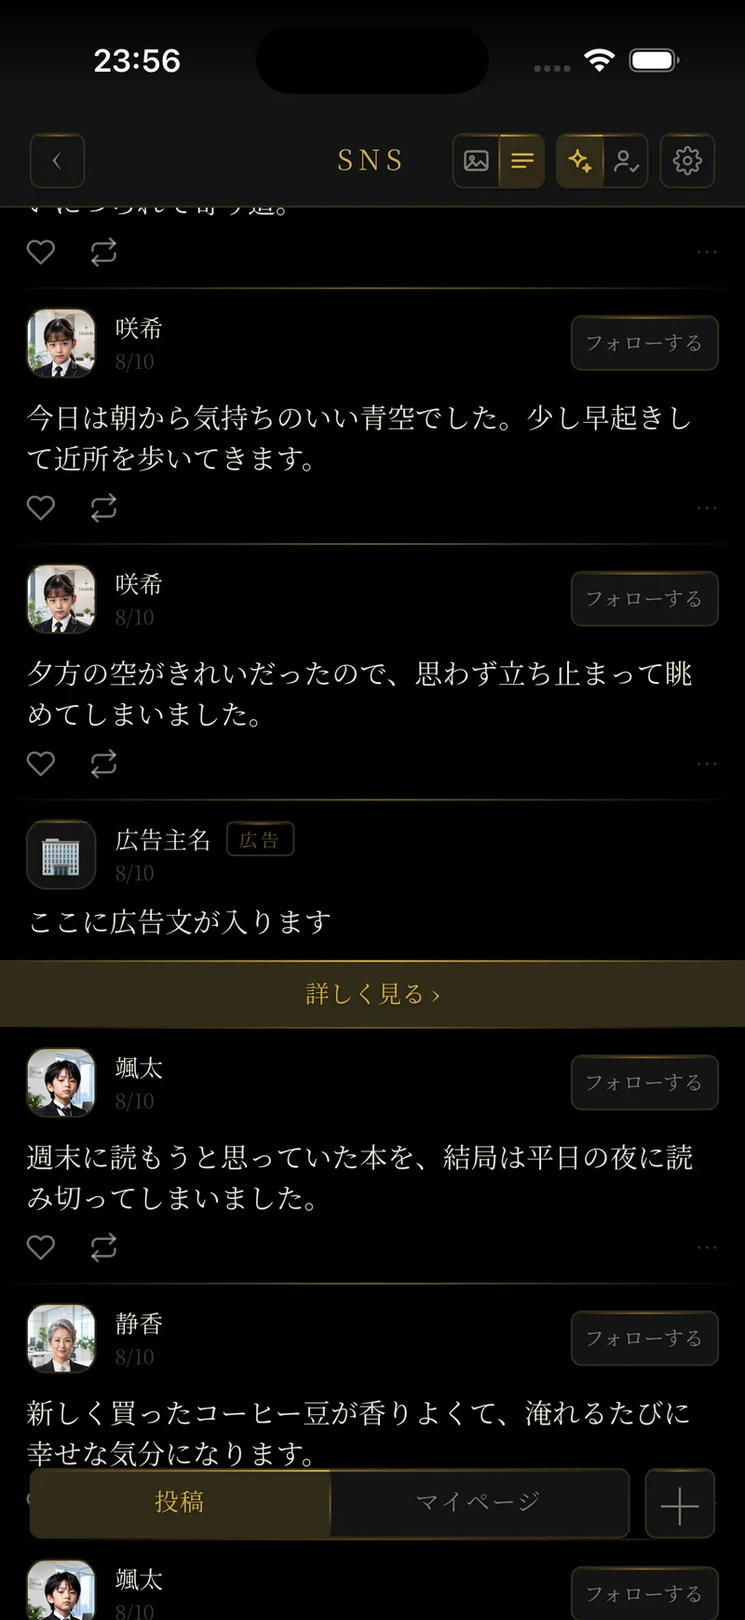
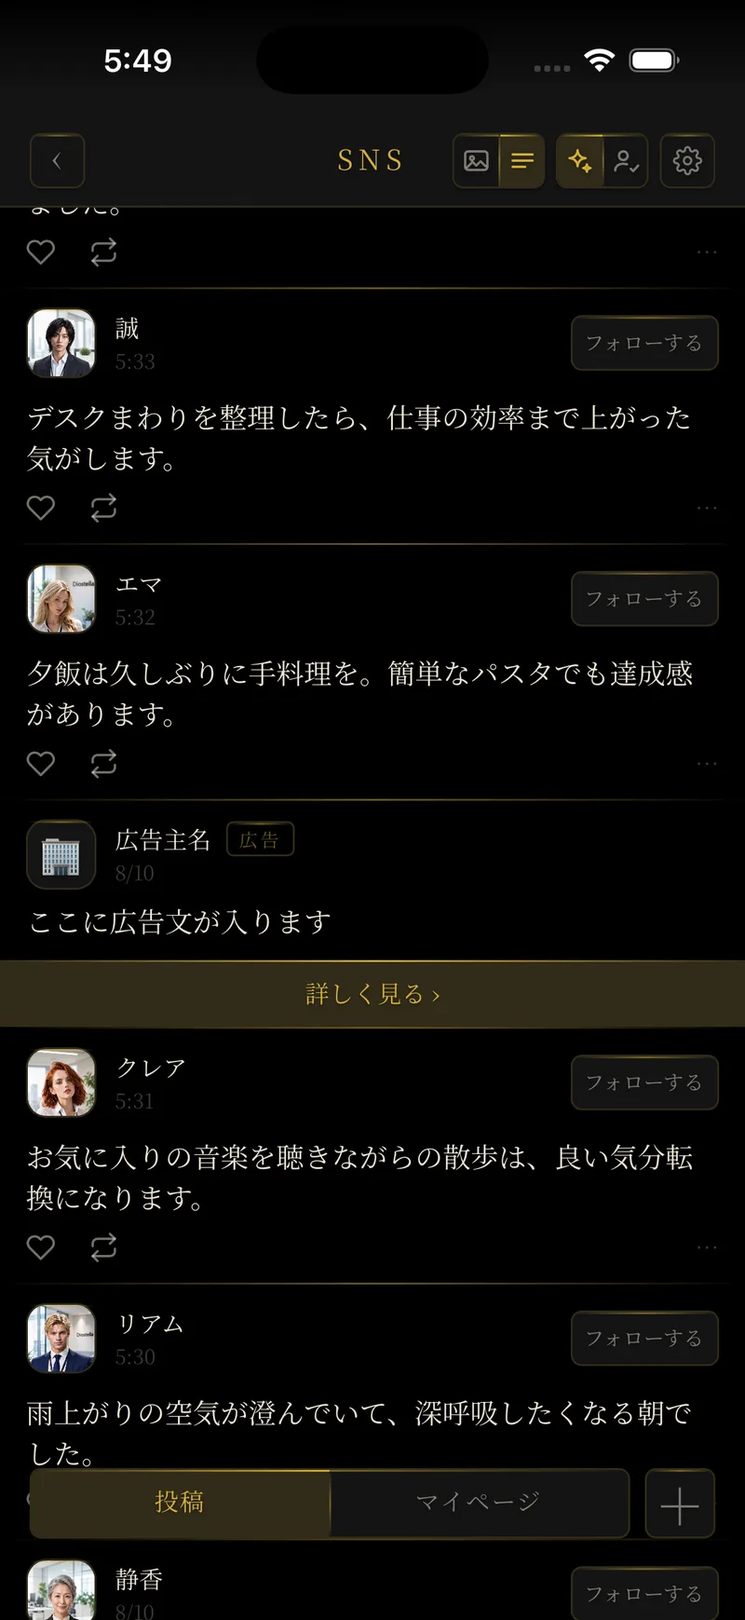
広告掲載ページの図版を全面実機スクショへ刷新（合成カタログ方式を廃止）
- SNSテキスト面4枚を差し替え、メディア一覧4枚・出会い4枚を新規追加
- 旧・合成カタログ画像3枚（ads-size-media/textfeed/dating.png）を削除
- 文言＝5行→7行表記へ更新・min/max の並び替え・「見出し」「文字のみ」の表記整理
- css/js は ?v= を更新（既存訪問者に古いキャッシュが出ないように）

diff --git a/pages/ads/index.html b/pages/ads/index.html
@@ -11,7 +11,7 @@
 </head>
 <body>
   <nav class="nav scrolled"><div class="nav-inner"><a href="../../index.html" class="nav-logo">Diostella</a><ul class="nav-links"><li class="nav-item"><a href="../about/message.html">会社案内</a><ul class="nav-dropdown"><li><a href="../about/message.html">代表メッセージ</a></li><li><a href="../about/profile.html">会社概要</a></li><li><a href="../about/officers.html">役員一覧</a></li><li><a href="../about/history.html">沿革</a></li><li><a href="../about/office.html">事業所案内</a></li></ul></li><li class="nav-item"><a href="../works/index.html">事業内容</a><ul class="nav-dropdown"><li><a href="../works/app.html">アプリ</a></li></ul></li><li class="nav-item"><a href="../news/index.html">お知らせ</a></li><li class="nav-item"><a href="../recruit/index.html">採用情報</a></li><li class="nav-item"><a href="../../contact.html">お問い合わせ</a></li></ul><button class="nav-toggle" aria-label="メニュー"><span></span><span></span><span></span></button></div></nav>
-  <div class="mobile-menu"><a href="../../index.html">トップ</a><a href="../about/message.html">会社案内</a><div class="mobile-sub"><a href="../about/message.html">代表メッセージ</a><a href="../about/profile.html">会社概要</a><a href="../about/officers.html">役員一覧</a><a href="../about/history.html">沿革</a><a href="../about/office.html">事業所案内</a></div><a href="../works/index.html">事業内容</a><div class="mobile-sub"><a href="../works/app.html">アプリ</a></div><a href="../news/index.html">お知らせ</a><a href="../recruit/index.html">採用情報</a><a href="index.html">広告掲載</a><a href="../collab/index.html">IPコラボ</a><a href="../../contact.html">お問い合わせ</a></div>
+  <div class="mobile-menu"><a href="../../index.html">トップ</a><a href="../about/message.html">会社案内</a><div class="mobile-sub"><a href="../about/message.html">代表メッセージ</a><a href="../about/profile.html">会社概要</a><a href="../about/officers.html">役員一覧</a><a href="../about/history.html">沿革</a><a href="../about/office.html">事業所案内</a></div><a href="../works/index.html">事業内容</a><div class="mobile-sub"><a href="../works/app.html">アプリ</a></div><a href="../news/index.html">お知らせ</a><a href="../recruit/index.html">採用情報</a><a href="index.html">広告掲載</a><a href="../collab/index.html">IPコラボ</a><a href="../support/index.html">ご支援のお願い</a><a href="../../contact.html">お問い合わせ</a></div>
 
   <div class="page-wrapper">
     <div class="container"><div class="breadcrumb"><a href="../../index.html">Diostella</a><span>></span>広告掲載について</div></div>
@@ -43,9 +43,9 @@
           <h3 style="font-size:1.05rem; margin:32px 0 12px; color:var(--gold, #a8842c);">広告の形式と入稿物</h3>
           <ul style="line-height:2.1; padding-left:1.2em;">
             <li><strong>画像投稿の広告</strong>（SNSの写真フィード）：画像1枚・広告主名（<strong>縦4:5〜横1.88:1</strong>）</li>
-            <li><strong>テキスト投稿の広告</strong>（SNSのテキスト投稿面）：画像1枚のみ（<strong>1.88:1</strong>）、または画像なしで広告主名・見出し・本文（<strong>5行まで</strong>）</li>
+            <li><strong>テキスト投稿の広告</strong>（SNSのテキスト投稿面）：画像1枚のみ（<strong>1.88:1</strong>）、または画像なしで広告主名・本文（<strong>7行まで</strong>・先頭の行は白色で強調できます）</li>
             <li><strong>メディア一覧の広告</strong>（音楽・動画・漫画・絵）：テキスト投稿の広告と<strong>同じ規格</strong>（同じ素材をお使いいただけます）</li>
-            <li><strong>出会いの広告</strong>：候補カードと同じ全画面カード。広告主名・見出し・本文・リンク先URL・画像（<strong>縦4:5〜横1.88:1</strong>の範囲でそのまま表示いたします。画像がない場合は見出しを大きく表示します）</li>
+            <li><strong>出会いの広告</strong>：候補カードと同じ全画面カード。広告主名・本文・リンク先URL・画像（<strong>縦4:5〜横1.88:1</strong>の範囲でそのまま表示いたします。画像または動画が必須＝文字のみの形はありません）</li>
             <li>入稿は画像とテキストのみ（タグ・スクリプト等の埋め込みは不可）</li>
           </ul>
 
@@ -93,34 +93,34 @@
           </p>
           <ul style="line-height:2.1; padding-left:1.2em; margin-bottom:12px;">
             <li><strong>画像の広告</strong>：比率 1.88:1 の<strong>1種類</strong>（推奨サイズ 1206×642px）。画像投稿面のいちばん小さい枠と同じで、同じ素材をお使いいただけます</li>
-            <li><strong>文字の広告</strong>：画像はありません。アイコン・広告主名・「広告」の表示・日付が並び、その下に文字が<strong>1行から最大5行まで</strong>入ります</li>
+            <li><strong>文字の広告</strong>：画像はありません。アイコン・広告主名・「広告」の表示・日付が並び、その下に文字が<strong>1行から最大7行まで</strong>入ります（先頭の行は白色で強調できます）</li>
             <li><strong>動画</strong>も画像と同じ枠（1.88:1）で、音声付きで入稿できます。音声のない状態で自動再生し、利用者が右下のボタンで音声を出せます</li>
             <li>どちらの形でも、素材の下に「詳しく見る」のリンク帯が付きます（帯は素材の外です）</li>
           </ul>
           <div style="display:flex; gap:16px; flex-wrap:wrap; justify-content:center; margin:20px 0 8px;">
             <figure style="margin:0; width:min(23%, 200px); min-width:170px;">
-              <img src="../../assets/images/ads-text-image.webp" alt="テキスト投稿面 画像の広告（1.88:1）の実機表示例"
+              <img src="../../assets/images/ads-text-image.webp?v=20260820" alt="テキスト投稿面 画像の広告（1.88:1）の実機表示例"
                    style="width:100%; height:auto; display:block; border:1px solid var(--border, #e5e3de); border-radius:18px;">
               <figcaption style="font-size:0.85rem; color:var(--text-muted, #999); line-height:1.9; margin-top:8px;">
                 画像の広告（1.88:1）。
               </figcaption>
             </figure>
             <figure style="margin:0; width:min(23%, 200px); min-width:170px;">
-              <img src="../../assets/images/ads-text-min.webp" alt="テキスト投稿面 文字の広告（最小1行）の実機表示例"
+              <img src="../../assets/images/ads-text-max.webp?v=20260820" alt="テキスト投稿面 文字の広告（最大7行）の実機表示例"
+                   style="width:100%; height:auto; display:block; border:1px solid var(--border, #e5e3de); border-radius:18px;">
+              <figcaption style="font-size:0.85rem; color:var(--text-muted, #999); line-height:1.9; margin-top:8px;">
+                文字の広告・最大（7行）。
+              </figcaption>
+            </figure>
+            <figure style="margin:0; width:min(23%, 200px); min-width:170px;">
+              <img src="../../assets/images/ads-text-min.webp?v=20260820" alt="テキスト投稿面 文字の広告（最小1行）の実機表示例"
                    style="width:100%; height:auto; display:block; border:1px solid var(--border, #e5e3de); border-radius:18px;">
               <figcaption style="font-size:0.85rem; color:var(--text-muted, #999); line-height:1.9; margin-top:8px;">
                 文字の広告・最小（1行）。
               </figcaption>
             </figure>
             <figure style="margin:0; width:min(23%, 200px); min-width:170px;">
-              <img src="../../assets/images/ads-text-max.webp" alt="テキスト投稿面 文字の広告（最大5行）の実機表示例"
-                   style="width:100%; height:auto; display:block; border:1px solid var(--border, #e5e3de); border-radius:18px;">
-              <figcaption style="font-size:0.85rem; color:var(--text-muted, #999); line-height:1.9; margin-top:8px;">
-                文字の広告・最大（5行）。
-              </figcaption>
-            </figure>
-            <figure style="margin:0; width:min(23%, 200px); min-width:170px;">
-              <img src="../../assets/images/ads-text-video.webp" alt="テキスト投稿面 動画の広告の実機表示例（右下に音声切替ボタン）"
+              <img src="../../assets/images/ads-text-video.webp?v=20260820" alt="テキスト投稿面 動画の広告の実機表示例（右下に音声切替ボタン）"
                    style="width:100%; height:auto; display:block; border:1px solid var(--border, #e5e3de); border-radius:18px;">
               <figcaption style="font-size:0.85rem; color:var(--text-muted, #999); line-height:1.9; margin-top:8px;">
                 動画の表示例。右下のボタンで音声を出せます。
@@ -136,19 +136,45 @@
             メディアの一覧に挟まる広告は、<strong>テキスト投稿面と同じ規格</strong>です。同じ素材をそのままお使いいただけます。
           </p>
           <ul style="line-height:2.1; padding-left:1.2em; margin-bottom:12px;">
-            <li><strong>画像の広告</strong>：1206 × 642 px（比率 1.88:1）の<strong>1種類のみ</strong>。一覧の中では左右に余白のある全幅カードとして、素材が切り取られずそのまま表示されます</li>
-            <li><strong>文字の広告</strong>：テキスト投稿面と同じ形式です（文字は5行まで）</li>
+            <li><strong>画像の広告</strong>：1206 × 642 px（比率 1.88:1）の<strong>1種類のみ</strong>。素材が切り取られずそのまま表示されます</li>
+            <li><strong>文字の広告</strong>：テキスト投稿面と同じ形式です（文字は7行まで）</li>
             <li>音楽・動画・漫画・絵のどの一覧でも、利用者が列数の表示設定を変えても、常に同じ形で表示されます</li>
-            <li>一覧の左右に余白がある分、SNSのテキスト投稿面よりも<strong>ひと回り小さく表示されます</strong>（縦横比は同じ・素材の切り取りはありません）</li>
+            <li>表示の大きさも<strong>SNSのテキスト投稿面と同じ画面幅いっぱい</strong>です（一覧の余白に関わらず同じ見え方になります）</li>
             <li>配信面は媒体単位（音楽のみ・漫画のみ等）で指定いただけます</li>
           </ul>
-          <figure style="margin:20px 0 8px;">
-            <img src="../../assets/images/ads-size-media.png" alt="メディア一覧の広告 入稿サイズの見本（サイズ見本と掲載例の実機表示例）"
-                 style="width:100%; max-width:640px; height:auto; display:block; margin:0 auto; border:1px solid var(--border, #e5e3de);">
-            <figcaption style="font-size:0.85rem; color:var(--text-muted, #999); line-height:1.9; margin-top:8px; text-align:center;">
-              実際の表示例（漫画の一覧）。左がサイズ見本、右が掲載例。作品の間に、左右に余白のある全幅カードとして挟まります。
-            </figcaption>
-          </figure>
+          <div style="display:flex; gap:16px; flex-wrap:wrap; justify-content:center; margin:20px 0 8px;">
+            <figure style="margin:0; width:min(23%, 200px); min-width:170px;">
+              <img src="../../assets/images/ads-media-manga.webp" alt="漫画一覧 画像の広告（1.88:1）の実機表示例"
+                   style="width:100%; height:auto; display:block; border:1px solid var(--border, #e5e3de); border-radius:18px;">
+              <figcaption style="font-size:0.85rem; color:var(--text-muted, #999); line-height:1.9; margin-top:8px;">
+                漫画の一覧・画像の広告（1.88:1）。
+              </figcaption>
+            </figure>
+            <figure style="margin:0; width:min(23%, 200px); min-width:170px;">
+              <img src="../../assets/images/ads-media-art.webp" alt="絵の一覧 文字の広告（最大7行）の実機表示例"
+                   style="width:100%; height:auto; display:block; border:1px solid var(--border, #e5e3de); border-radius:18px;">
+              <figcaption style="font-size:0.85rem; color:var(--text-muted, #999); line-height:1.9; margin-top:8px;">
+                絵の一覧・文字の広告・最大（7行）。
+              </figcaption>
+            </figure>
+            <figure style="margin:0; width:min(23%, 200px); min-width:170px;">
+              <img src="../../assets/images/ads-media-music.webp" alt="音楽一覧 文字の広告（最小1行）の実機表示例"
+                   style="width:100%; height:auto; display:block; border:1px solid var(--border, #e5e3de); border-radius:18px;">
+              <figcaption style="font-size:0.85rem; color:var(--text-muted, #999); line-height:1.9; margin-top:8px;">
+                音楽の一覧・文字の広告・最小（1行）。
+              </figcaption>
+            </figure>
+            <figure style="margin:0; width:min(23%, 200px); min-width:170px;">
+              <img src="../../assets/images/ads-media-novel.webp" alt="小説一覧 動画の広告の実機表示例（右下に音声切替ボタン）"
+                   style="width:100%; height:auto; display:block; border:1px solid var(--border, #e5e3de); border-radius:18px;">
+              <figcaption style="font-size:0.85rem; color:var(--text-muted, #999); line-height:1.9; margin-top:8px;">
+                小説の一覧・動画の表示例。右下のボタンで音声を出せます。
+              </figcaption>
+            </figure>
+          </div>
+          <p style="font-size:0.85rem; color:var(--text-muted, #999); line-height:1.9; margin:0 0 8px;">
+            ※iPhone 17 Pro（画面幅402pt・3倍）での表示を撮影したものです。
+          </p>
 
           <h3 style="font-size:1.05rem; margin:32px 0 12px; color:var(--gold, #a8842c);">入稿サイズ（出会いの広告）</h3>
           <p style="line-height:2; margin-bottom:12px;">
@@ -156,15 +182,41 @@
           </p>
           <ul style="line-height:2.1; padding-left:1.2em; margin-bottom:12px;">
             <li>画像・動画とも<strong>縦4:5（1206×1508px）〜横1.88:1（1206×642px）</strong>の範囲内で、入稿いただいた形のまま表示いたします＝<strong>画像投稿の広告と同じ規格</strong>（同じ素材をお使いいただけます。範囲を外れる素材は枠に合わせて中央を切り取って表示します）</li>
-            <li>画像の下に広告主名・見出し・本文・「詳しく見る」の帯が入ります</li>
+            <li>「広告」の表示と広告主名は素材の左上に重なり、素材の下に本文と「詳しく見る」の帯が入ります（先頭の行は白色で強調できます。本文の全文表示は横1.88:1で16行（346字）・縦4:5で4行までです）</li>
           </ul>
-          <figure style="margin:20px 0 8px;">
-            <img src="../../assets/images/ads-size-dating.png" alt="出会い面の広告 入稿サイズの見本（横1.88:1・縦4:5・動画の実機表示例）"
-                 style="width:100%; height:auto; display:block; border:1px solid var(--border, #e5e3de);">
-            <figcaption style="font-size:0.85rem; color:var(--text-muted, #999); line-height:1.9; margin-top:8px;">
-              実際の表示例。左から、横の限界（1.88:1）とその掲載例、縦の限界（4:5）とその掲載例、動画（横長・縦長）です。
-            </figcaption>
-          </figure>
+          <div style="display:flex; gap:16px; flex-wrap:wrap; justify-content:center; margin:20px 0 8px;">
+            <figure style="margin:0; width:min(23%, 200px); min-width:170px;">
+              <img src="../../assets/images/ads-dating-max-image.webp" alt="出会い面 縦の限界（4:5）画像と本文最大の実機表示例"
+                   style="width:100%; height:auto; display:block; border:1px solid var(--border, #e5e3de); border-radius:18px;">
+              <figcaption style="font-size:0.85rem; color:var(--text-muted, #999); line-height:1.9; margin-top:8px;">
+                縦の限界（4:5）・本文最大（4行）。
+              </figcaption>
+            </figure>
+            <figure style="margin:0; width:min(23%, 200px); min-width:170px;">
+              <img src="../../assets/images/ads-dating-mini-image.webp" alt="出会い面 横の限界（1.88:1）画像と本文最大の実機表示例"
+                   style="width:100%; height:auto; display:block; border:1px solid var(--border, #e5e3de); border-radius:18px;">
+              <figcaption style="font-size:0.85rem; color:var(--text-muted, #999); line-height:1.9; margin-top:8px;">
+                横の限界（1.88:1）・本文最大（16行・346字）。
+              </figcaption>
+            </figure>
+            <figure style="margin:0; width:min(23%, 200px); min-width:170px;">
+              <img src="../../assets/images/ads-dating-max-video.webp" alt="出会い面 動画（縦長4:5）と本文最小の実機表示例"
+                   style="width:100%; height:auto; display:block; border:1px solid var(--border, #e5e3de); border-radius:18px;">
+              <figcaption style="font-size:0.85rem; color:var(--text-muted, #999); line-height:1.9; margin-top:8px;">
+                動画（縦長4:5）・本文最小。右下のボタンで音声を出せます。
+              </figcaption>
+            </figure>
+            <figure style="margin:0; width:min(23%, 200px); min-width:170px;">
+              <img src="../../assets/images/ads-dating-mini-video.webp" alt="出会い面 動画（横長1.88:1）と本文最小の実機表示例"
+                   style="width:100%; height:auto; display:block; border:1px solid var(--border, #e5e3de); border-radius:18px;">
+              <figcaption style="font-size:0.85rem; color:var(--text-muted, #999); line-height:1.9; margin-top:8px;">
+                動画（横長1.88:1）・本文最小。
+              </figcaption>
+            </figure>
+          </div>
+          <p style="font-size:0.85rem; color:var(--text-muted, #999); line-height:1.9; margin:0 0 8px;">
+            ※iPhone 17 Pro（画面幅402pt・3倍）での表示を撮影したものです。
+          </p>
           <p style="line-height:2; margin:20px 0 8px;">
             ご入稿予定の素材と文章を入れて、実際の表示と切り取り位置をその場でご確認いただけます。
             <a href="simulator.html">入稿シミュレータはこちら</a>（画像はブラウザ内でのみ処理され、送信されません）
@@ -223,7 +275,7 @@
     </div>
   </div>
 
-  <footer class="footer"><div class="container"><div class="footer-grid"><div class="footer-col"><h4>会社案内</h4><ul><li><a href="../about/message.html">代表メッセージ</a></li><li><a href="../about/profile.html">会社概要</a></li><li><a href="../about/officers.html">役員一覧</a></li><li><a href="../about/history.html">沿革</a></li><li><a href="../about/office.html">事業所案内</a></li></ul></div><div class="footer-col"><h4>事業内容</h4><ul><li><a href="../works/app.html">アプリ</a></li></ul></div><div class="footer-col"><h4>その他</h4><ul><li><a href="../news/index.html">お知らせ</a></li><li><a href="../recruit/index.html">採用情報</a></li><li><a href="index.html">広告掲載</a><a href="../collab/index.html">IPコラボ</a></li><li><a href="../../contact.html">お問い合わせ</a></li></ul></div></div><div class="footer-bottom"><span class="footer-logo">Diostella</span><p class="footer-copy">&copy; 2026 Diostella. All rights reserved.</p></div></div></footer>
+  <footer class="footer"><div class="container"><div class="footer-grid"><div class="footer-col"><h4>会社案内</h4><ul><li><a href="../about/message.html">代表メッセージ</a></li><li><a href="../about/profile.html">会社概要</a></li><li><a href="../about/officers.html">役員一覧</a></li><li><a href="../about/history.html">沿革</a></li><li><a href="../about/office.html">事業所案内</a></li></ul></div><div class="footer-col"><h4>事業内容</h4><ul><li><a href="../works/app.html">アプリ</a></li></ul></div><div class="footer-col"><h4>その他</h4><ul><li><a href="../news/index.html">お知らせ</a></li><li><a href="../recruit/index.html">採用情報</a></li><li><a href="index.html">広告掲載</a><a href="../collab/index.html">IPコラボ</a></li><li><a href="../support/index.html">ご支援のお願い</a></li><li><a href="../../contact.html">お問い合わせ</a></li></ul></div></div><div class="footer-bottom"><span class="footer-logo">Diostella</span><p class="footer-copy">&copy; 2026 Diostella. All rights reserved.</p></div></div></footer>
   <script src="../../assets/js/script.js?v=20260816c"></script>
 </body>
 </html>

diff --git a/pages/ads/simulator.html b/pages/ads/simulator.html
@@ -118,7 +118,7 @@
 </head>
 <body>
   <nav class="nav scrolled"><div class="nav-inner"><a href="../../index.html" class="nav-logo">Diostella</a><ul class="nav-links"><li class="nav-item"><a href="../about/message.html">会社案内</a><ul class="nav-dropdown"><li><a href="../about/message.html">代表メッセージ</a></li><li><a href="../about/profile.html">会社概要</a></li><li><a href="../about/officers.html">役員一覧</a></li><li><a href="../about/history.html">沿革</a></li><li><a href="../about/office.html">事業所案内</a></li></ul></li><li class="nav-item"><a href="../works/index.html">事業内容</a><ul class="nav-dropdown"><li><a href="../works/app.html">アプリ</a></li></ul></li><li class="nav-item"><a href="../news/index.html">お知らせ</a></li><li class="nav-item"><a href="../recruit/index.html">採用情報</a></li><li class="nav-item"><a href="../../contact.html">お問い合わせ</a></li></ul><button class="nav-toggle" aria-label="メニュー"><span></span><span></span><span></span></button></div></nav>
-  <div class="mobile-menu"><a href="../../index.html">トップ</a><a href="../about/message.html">会社案内</a><div class="mobile-sub"><a href="../about/message.html">代表メッセージ</a><a href="../about/profile.html">会社概要</a><a href="../about/officers.html">役員一覧</a><a href="../about/history.html">沿革</a><a href="../about/office.html">事業所案内</a></div><a href="../works/index.html">事業内容</a><div class="mobile-sub"><a href="../works/app.html">アプリ</a></div><a href="../news/index.html">お知らせ</a><a href="../recruit/index.html">採用情報</a><a href="index.html">広告掲載</a><a href="../collab/index.html">IPコラボ</a><a href="../../contact.html">お問い合わせ</a></div>
+  <div class="mobile-menu"><a href="../../index.html">トップ</a><a href="../about/message.html">会社案内</a><div class="mobile-sub"><a href="../about/message.html">代表メッセージ</a><a href="../about/profile.html">会社概要</a><a href="../about/officers.html">役員一覧</a><a href="../about/history.html">沿革</a><a href="../about/office.html">事業所案内</a></div><a href="../works/index.html">事業内容</a><div class="mobile-sub"><a href="../works/app.html">アプリ</a></div><a href="../news/index.html">お知らせ</a><a href="../recruit/index.html">採用情報</a><a href="index.html">広告掲載</a><a href="../collab/index.html">IPコラボ</a><a href="../support/index.html">ご支援のお願い</a><a href="../../contact.html">お問い合わせ</a></div>
 
   <div class="page-wrapper">
     <div class="container"><div class="breadcrumb"><a href="../../index.html">Diostella</a><span>></span><a href="index.html">広告掲載について</a><span>></span>入稿シミュレータ</div></div>
@@ -232,7 +232,7 @@
     </div>
   </div>
 
-  <footer class="footer"><div class="container"><div class="footer-grid"><div class="footer-col"><h4>会社案内</h4><ul><li><a href="../about/message.html">代表メッセージ</a></li><li><a href="../about/profile.html">会社概要</a></li><li><a href="../about/officers.html">役員一覧</a></li><li><a href="../about/history.html">沿革</a></li><li><a href="../about/office.html">事業所案内</a></li></ul></div><div class="footer-col"><h4>事業内容</h4><ul><li><a href="../works/app.html">アプリ</a></li></ul></div><div class="footer-col"><h4>その他</h4><ul><li><a href="../news/index.html">お知らせ</a></li><li><a href="../recruit/index.html">採用情報</a></li><li><a href="index.html">広告掲載</a><a href="../collab/index.html">IPコラボ</a></li><li><a href="../../contact.html">お問い合わせ</a></li></ul></div></div><div class="footer-bottom"><span class="footer-logo">Diostella</span><p class="footer-copy">&copy; 2026 Diostella. All rights reserved.</p></div></div></footer>
+  <footer class="footer"><div class="container"><div class="footer-grid"><div class="footer-col"><h4>会社案内</h4><ul><li><a href="../about/message.html">代表メッセージ</a></li><li><a href="../about/profile.html">会社概要</a></li><li><a href="../about/officers.html">役員一覧</a></li><li><a href="../about/history.html">沿革</a></li><li><a href="../about/office.html">事業所案内</a></li></ul></div><div class="footer-col"><h4>事業内容</h4><ul><li><a href="../works/app.html">アプリ</a></li></ul></div><div class="footer-col"><h4>その他</h4><ul><li><a href="../news/index.html">お知らせ</a></li><li><a href="../recruit/index.html">採用情報</a></li><li><a href="index.html">広告掲載</a><a href="../collab/index.html">IPコラボ</a></li><li><a href="../support/index.html">ご支援のお願い</a></li><li><a href="../../contact.html">お問い合わせ</a></li></ul></div></div><div class="footer-bottom"><span class="footer-logo">Diostella</span><p class="footer-copy">&copy; 2026 Diostella. All rights reserved.</p></div></div></footer>
 
   <script src="../../assets/js/script.js?v=20260816c"></script>
   <script>
